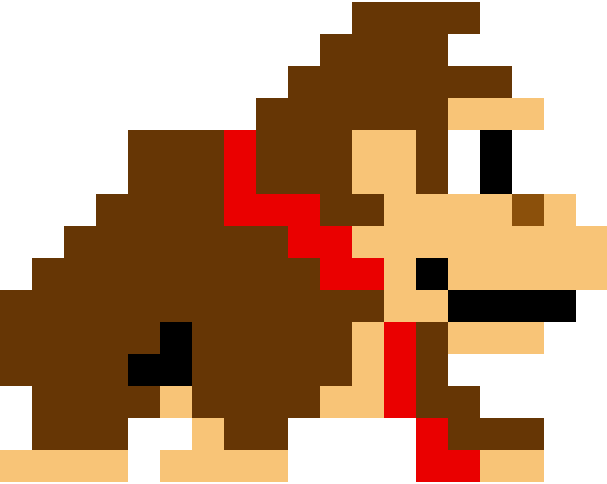
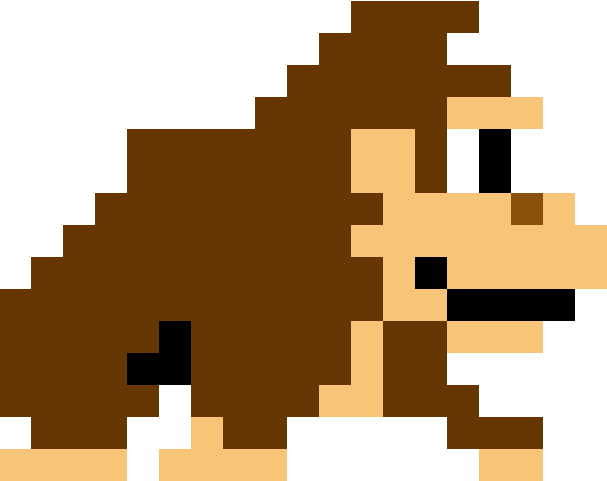
Animation

diff --git a/src/main/java/com/example/stickman_project/NINJA.java b/src/main/java/com/example/stickman_project/NINJA.java
@@ -1,8 +1,6 @@
 package com.example.stickman_project;
 
-import javafx.animation.Animation;
-import javafx.animation.KeyFrame;
-import javafx.animation.Timeline;
+import javafx.animation.*;
 import javafx.fxml.FXML;
 import javafx.scene.Scene;
 import javafx.scene.image.Image;
@@ -29,6 +27,8 @@ public class NINJA {
     private Image running3 = new Image("donkeykong_running3.png");
     private Image running4 = new Image("donkeykong_running4.png");
     private Image running5 = new Image("donkeykong_running5.png");
+    private Image running6 = new Image("donkeykong_running6.png");
+    private Image running7 = new Image("donkeykong_running7.png");
 
     private Image kicking1 = new Image("donkeykong_kicking1.png");
     private Image kicking2 = new Image("donkeykong_kicking2.png");
@@ -41,18 +41,15 @@ public class NINJA {
 
 
     int running_number = 1;
-    private Timeline running_timeline = new Timeline(new KeyFrame(Duration.seconds(0.005), event ->{
+    private Timeline running_timeline = new Timeline(new KeyFrame(Duration.seconds(0.03), event ->{
         boolean dead = false;
-        if (character.getLayoutX() >= this.blocks.getSecondary_block().getLayoutX() + this.blocks.getSecondary_block().getWidth() ){
+        if (endx >= this.blocks.getSecondary_block().getLayoutX() + this.blocks.getSecondary_block().getWidth() || endx <= this.blocks.getSecondary_block().getLayoutX()){
             dead = true;
-
         }
 
-        if (character.getLayoutX() < this.endx - 0){
-//            System.out.println(this.character.getLayoutX());
-//            System.out.println(this.endx);
-            this.character.setLayoutX(this.character.getLayoutX() + 1);
+        if ((!dead && (character.getLayoutX() < (this.blocks.getSecondary_block().getLayoutX() +this.blocks.getSecondary_block().getWidth()) - this.character.getFitWidth())) || (dead && this.character.getLayoutX() < endx)){
 
+            this.character.setLayoutX(this.character.getLayoutX() + 5);
             switch (running_number) {
                 case 1:
                     this.character.setImage(this.running1);
@@ -82,22 +79,37 @@ public class NINJA {
                     break;
                 case 5:
                     this.character.setImage(this.running5);
+                    running_number = 6;
+                    this.scene.addEventFilter(KeyEvent.KEY_PRESSED, this::donkey_flip);
+                    this.scene.addEventFilter(KeyEvent.KEY_RELEASED, this::donkey_normal);
+                    break;
+
+                case 6:
+                    this.character.setImage(this.running6);
+                    running_number = 7;
+                    this.scene.addEventFilter(KeyEvent.KEY_PRESSED, this::donkey_flip);
+                    this.scene.addEventFilter(KeyEvent.KEY_RELEASED, this::donkey_normal);
+                    break;
+
+                case 7:
+                    this.character.setImage(this.running7);
                     running_number = 1;
                     this.scene.addEventFilter(KeyEvent.KEY_PRESSED, this::donkey_flip);
                     this.scene.addEventFilter(KeyEvent.KEY_RELEASED, this::donkey_normal);
                     break;
             }
+
         }
         else{
 
             if (dead){
                 exit_routine();
 
+
             }else{
                 this.running_animation_stopper();
                 this.initial_image();
-                System.out.println(this.character.getLayoutX());
-                System.out.println(this.endx);
+
             }
 
 
@@ -201,6 +213,9 @@ public class NINJA {
     public double get_position(){
         return this.character.getLayoutX();
     }
+    public ImageView get_character(){
+        return this.character;
+    }
 
     public void setBlocks(Blocks blocks) {
         this.blocks = blocks;
@@ -218,7 +233,17 @@ public class NINJA {
         this.scene = scene;
     }
     public void exit_routine(){
-        System.out.println("Exited");
+        this.blocks.stop();
+        this.running_animation_stopper_2();
+        System.out.println("Apple");
+        RotateTransition r = new RotateTransition(Duration.seconds(3),this.character);
+        r.setFromAngle(0);
+        r.setToAngle(720);
+        r.setCycleCount(1);
+        TranslateTransition fallTransition = new TranslateTransition(Duration.seconds(3), this.character);
+        fallTransition.setByY(600);
+        r.play();
+        fallTransition.play();
     }
 
     private void donkey_flip(KeyEvent event) {

diff --git a/src/main/java/com/example/stickman_project/Stick.java b/src/main/java/com/example/stickman_project/Stick.java
@@ -33,14 +33,14 @@ public class Stick {
     private AnchorPane main_pane;
 
     private boolean flag=false;
-
-    public Stick(Rectangle stick, NINJA character, Blocks blocks, Scene scene, AnchorPane main_pane,ImageView characterImageView) {
+    private Barrel barrel;
+    public Stick(Rectangle stick, NINJA character, Blocks blocks, Scene scene, AnchorPane main_pane) {
         this.stick=stick;
         this.character = character;
         this.blocks = blocks;
         this.scene = scene;
         this.main_pane = main_pane;
-        this.characterImageView = characterImageView;
+        this.characterImageView = this.character.get_character();
 
         this.scene.addEventFilter(KeyEvent.KEY_PRESSED, event -> {
             if (event.getCode() == KeyCode.SPACE) {
@@ -59,7 +59,7 @@ public class Stick {
     public void initial_condition(){
         this.previous_stick = this.stick;
         Rectangle rectangle = new Rectangle();
-        rectangle.setWidth(10);
+        rectangle.setWidth(5);
         rectangle.setHeight(0);
         rectangle.setLayoutX(239);
         rectangle.setLayoutY(550);
@@ -67,8 +67,7 @@ public class Stick {
         rectangle.setFill(Color.web("#8B500B"));
         rectangle.setStroke(Color.BLACK);
         main_pane.getChildren().add(rectangle);
-
-
+        this.barrel = new Barrel(this.blocks,this.character,this.main_pane);
         this.stick = rectangle;
     }
     public void increase_height() {
@@ -111,18 +110,6 @@ public class Stick {
                             this.character.running_animation_stopper_2();
 
                         }
-                        if (endX<this.blocks.getSecondary_block().getLayoutX()){
-                            RotateTransition r = new RotateTransition(Duration.seconds(3),this.characterImageView);
-                            r.setFromAngle(0);
-                            r.setToAngle(720);
-//                            r.setAutoReverse(true);
-                            r.setCycleCount(1);
-                            TranslateTransition fallTransition = new TranslateTransition(Duration.seconds(3), characterImageView);
-                            fallTransition.setByY(600);
-                            System.out.println("noooo\n");
-                            r.play();
-                            fallTransition.play();
-                        }
                         flag=true;
                         return;
                     }
@@ -133,7 +120,11 @@ public class Stick {
 
     }
     public void stop_down_timeline(double endX){
+        if (this.barrel != null){
+            this.barrel.barrel_roll();
+        }
         this.character.running_animation(endX);
+
     }
     public Rectangle getStick() {
         return stick;

diff --git a/src/main/java/com/example/stickman_project/Barrel.java b/src/main/java/com/example/stickman_project/Barrel.java
@@ -1,0 +1,60 @@
+package com.example.stickman_project;
+
+import javafx.animation.KeyFrame;
+import javafx.animation.Timeline;
+import javafx.fxml.FXML;
+import javafx.scene.Scene;
+import javafx.scene.image.Image;
+import javafx.scene.image.ImageView;
+import javafx.scene.layout.AnchorPane;
+import javafx.scene.shape.Rectangle;
+import javafx.scene.transform.Rotate;
+import javafx.util.Duration;
+
+public class Barrel{
+    ImageView barrel_view = new ImageView();
+    private Rotate rotation;
+    private Blocks blocks;
+
+    private NINJA ninja;
+    private AnchorPane main_pane;
+
+    private Timeline barrel_rolling = new Timeline(new KeyFrame(Duration.seconds(0.004), event ->{
+        if (barrel_view.getLayoutX() > blocks.getPrimary_block().getLayoutX() ){
+            rotation.setAngle(rotation.getAngle() - 1);
+            barrel_view.setLayoutX(barrel_view.getLayoutX() - 1);
+        }else{
+            this.main_pane.getChildren().remove(barrel_view);
+            stop_rolling();
+        }
+
+    }));
+
+    private void stop_rolling() {
+        this.barrel_rolling.stop();
+    }
+
+    public ImageView getBarrel_view() {
+        return barrel_view;
+    }
+
+    public Barrel(Blocks blocks, NINJA ninja, AnchorPane mainPane){
+        this.blocks = blocks;
+        this.ninja = ninja;
+        this.main_pane = mainPane;
+        this.barrel_view.setFitHeight(50);
+        this.barrel_view.setFitWidth(50);
+        this.barrel_view.setImage(new Image("Donkey Kong Barrel.png"));
+        barrel_view.setLayoutX(blocks.getSecondary_block().getLayoutX() + (blocks.getSecondary_block().getWidth() / 2) - 25);
+        barrel_view.setLayoutY(500);
+        mainPane.getChildren().add(barrel_view);
+        this.rotation = new Rotate(0,25,25);
+        this.barrel_view.getTransforms().add(this.rotation);
+
+    }
+
+    public void barrel_roll(){
+        barrel_rolling.setCycleCount(Timeline.INDEFINITE);
+        barrel_rolling.play();
+    }
+}

diff --git a/src/main/java/com/example/stickman_project/Blocks.java b/src/main/java/com/example/stickman_project/Blocks.java
@@ -21,7 +21,7 @@ public class Blocks {
     private NINJA ninja;
     private Random rand = new Random();
 
-    private Timeline moving_timeline = new Timeline(new KeyFrame(Duration.seconds(0.005), event ->{
+    private Timeline moving_timeline = new Timeline(new KeyFrame(Duration.seconds(0.001), event ->{
         if (this.ninja.get_position() >= 157){
             this.stick.setPosition(this.stick.getPosition() - 1);
             this.secondary_block.setLayoutX(this.secondary_block.getLayoutX() - 1);
@@ -29,10 +29,6 @@ public class Blocks {
             this.ninja.set_position(this.ninja.get_position() - 1);
         }
 
-//        else if (this.secondary_block.getLayoutX() + this.secondary_block.getWidth() >= 275){
-//            this.stick.setPosition(this.stick.getPosition() - 2);
-//            this.secondary_block.setLayoutX(this.secondary_block.getLayoutX() - 2);
-//            this.starting_block.setLayoutX(this.starting_block.getLayoutX() - 2);
         else{
             this.ninja.initial_image();
             this.starting_block.setLayoutX(275 - this.secondary_block.getWidth());
@@ -58,10 +54,10 @@ public class Blocks {
         this.secondary_block.setVisible(true);
     }
     public void generate_second_block(){
-        int x = 380 + rand.nextInt(500);
+        int x =  400  + rand.nextInt(500);
         this.secondary_block.setLayoutX(x);
         this.secondary_block.setLayoutY(550);
-        this.secondary_block.setWidth(rand.nextInt(100,500));
+        this.secondary_block.setWidth(rand.nextInt(200,500));
     }
     public void switch_block_motion(){
 
@@ -77,5 +73,13 @@ public class Blocks {
 
     public Rectangle getSecondary_block() {
         return secondary_block;
+    }
+
+    public Rectangle getPrimary_block() {
+    return this.starting_block;
+    }
+
+    public void stop() {
+        this.moving_timeline.stop();
     }
 }

diff --git a/src/main/java/com/example/stickman_project/HelloApplication.java b/src/main/java/com/example/stickman_project/HelloApplication.java
@@ -21,11 +21,6 @@ import java.util.Objects;
 public class  HelloApplication extends Application {
     @Override
     public void start(Stage stage) throws IOException, InterruptedException {
-//        Parent root = FXMLLoader.load(Objects.requireNonNull(getClass().getResource("hello-view.fxml")));
-//        Scene scene = new Scene(root);
-//        stage.setTitle("Stick Hero!");
-//        stage.setScene(scene);
-//        stage.show();
         FXMLLoader loader = new FXMLLoader(getClass().getResource("hello-view.fxml"));
         Parent root = loader.load();
         HelloController controller = loader.getController();
@@ -35,7 +30,7 @@ public class  HelloApplication extends Application {
         controller.setScene(scene);
 
         stage = new Stage();
-        stage.setScene(scene);
+        stage.setScene(scene);       
 
         controller.setStage(stage);
 

diff --git a/src/main/java/com/example/stickman_project/MainController.java b/src/main/java/com/example/stickman_project/MainController.java
@@ -55,7 +55,7 @@ public class MainController {
         this.ninja = new NINJA(character);
         this.blocks = new Blocks(starting_block,secondary_block,ninja);
         this.ninja.setBlocks(this.blocks);
-        this.stick = new Stick(stick_rectangle,ninja,blocks,this.scene,main_screen,character);
+        this.stick = new Stick(stick_rectangle,ninja,blocks,this.scene,main_screen);
         this.ninja.setStick(this.stick);this.ninja.setStage(this.stage);this.ninja.setScene(this.scene);
         this.blocks.setStick(this.stick);
     }
